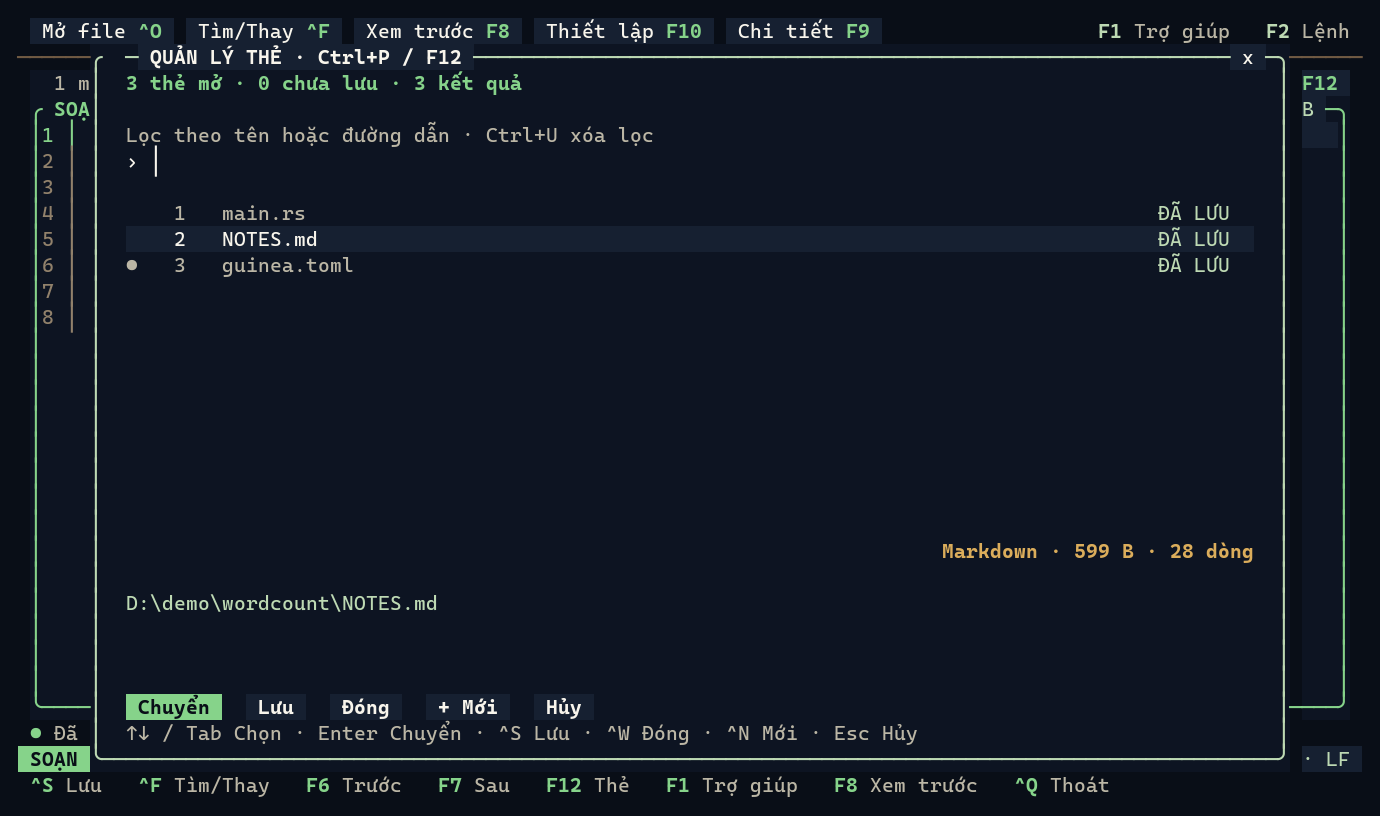
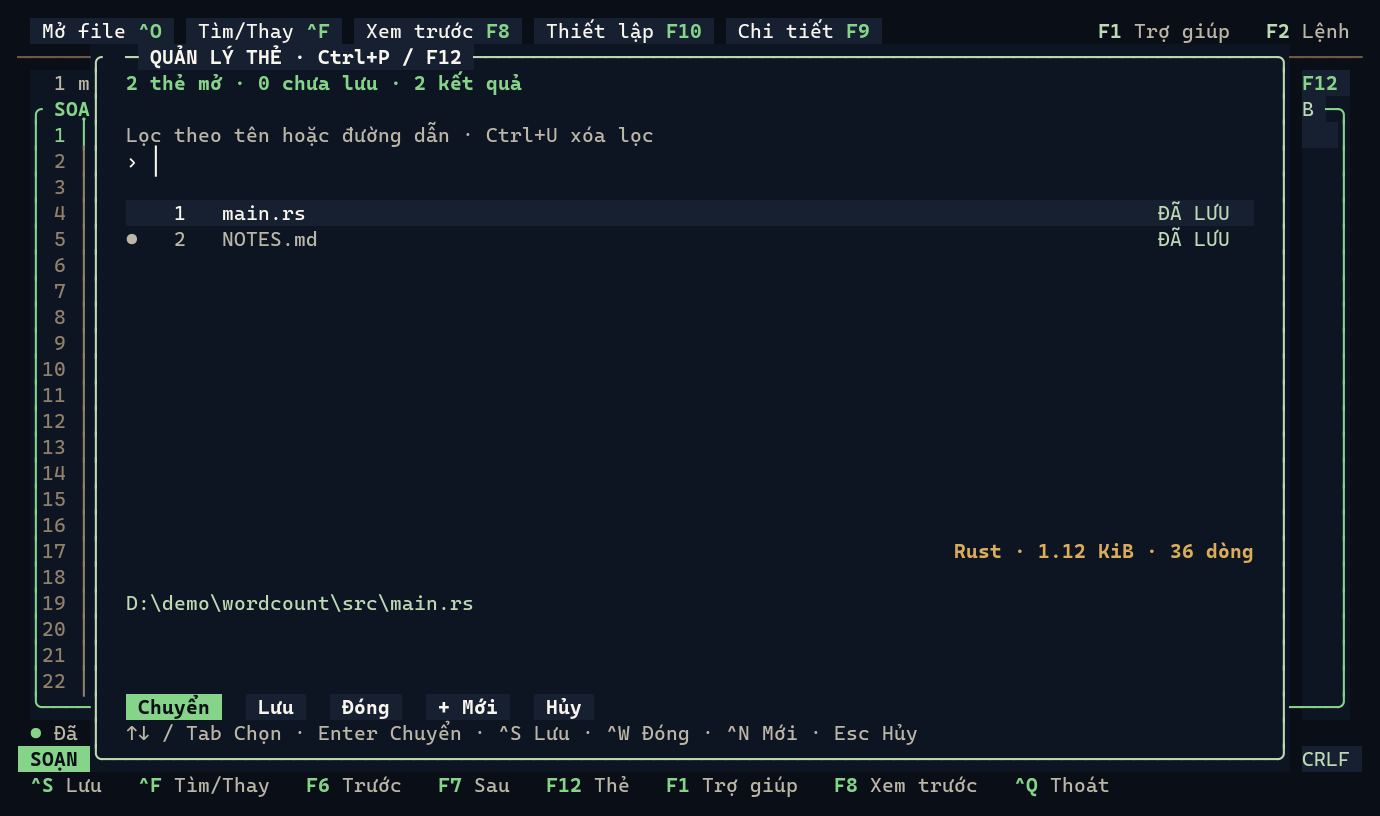
Remove the mouse-only close mark from dialog corners
Every dialog drew a clickable " x " in its title bar. Keyboard users
cannot reach it and Esc already closes every dialog, while dialogs that
need it keep their own Cancel / Keep working button. The mark and its
hit region are gone; pty_dialog_mouse.py now checks that the title bar
has no mark and that Esc closes the confirmation. Docs and README
screenshots updated.

diff --git a/scripts/pty_dialog_mouse.py b/scripts/pty_dialog_mouse.py
@@ -28,13 +28,6 @@ def click(ui,label,condition=None,button=0):
     return pointer(x+1,y,button)
 
 
-def close_x(ui,title):
-    ui.wait_until(lambda lines:any(title in line and " x " in line for line in lines))
-    row,line=next((i,line) for i,line in enumerate(ui.screen.display) if title in line)
-    # Tabs share one row: take the close button that follows this title.
-    return pointer(line.index(" x ",line.index(title))+1,row)
-
-
 def main():
     with tempfile.TemporaryDirectory(prefix="guineanote-dialog-mouse-") as directory:
         root=Path(directory)
@@ -68,7 +61,9 @@ def main():
             assert "Tabs 3/3" in "\n".join(ui.screen.display)
             ui.send("\x17")
             ui.wait("UNSAVED CHANGES / CONFIRM")
-            action(ui,"dialog:header-close",close_x(ui,"UNSAVED CHANGES / CONFIRM"),lambda s:"UNSAVED CHANGES / CONFIRM" not in s)
+            # Dialogs have no mouse-only close mark in the title bar; Esc closes them.
+            assert not any("UNSAVED CHANGES / CONFIRM" in line and " x " in line for line in ui.screen.display)
+            action(ui,"dialog:esc-close","\x1b",lambda s:"UNSAVED CHANGES / CONFIRM" not in s)
             ui.send("\x17")
             ui.wait("UNSAVED CHANGES / CONFIRM")
             action(ui,"dialog:discard-close",click(ui,"Discard & close"),"Tabs 2/2")

diff --git a/crates/guinea-tui/src/dialogs.rs b/crates/guinea-tui/src/dialogs.rs
@@ -62,17 +62,9 @@ fn surface(
         ));
     let inner = block.inner(rect);
     frame.render_widget(block, rect);
+    // No mouse-only close mark in the corner: Esc closes every dialog, and
+    // dialogs that need it show their own Cancel / Keep working button.
     hits.modal = rect;
-    if rect.width >= 8 && rect.height >= 3 {
-        let close = Rect::new(rect.right() - 5, rect.y, 3, 1);
-        text(
-            frame,
-            close,
-            Line::from(" x "),
-            fg(theme.text).bg(theme.raised),
-        );
-        hits.modal_actions.push((close, "cancel"));
-    }
     inner
 }
 fn text(frame: &mut Frame<'_>, area: Rect, value: impl Into<Line<'static>>, style: Style) {

diff --git a/docs/UX_IMPROVEMENTS.md b/docs/UX_IMPROVEMENTS.md
@@ -2,8 +2,9 @@
 
 ## Dialog, mouse and search redesign
 
-All dialogs now share raised title bars, clear borders, a shadow and a clickable
-top-right close button. Confirmations identify affected files and explain the
+All dialogs now share raised title bars, clear borders and a shadow. (The
+clickable top-right close mark was removed on 13/11/2026: Esc closes every
+dialog, and dialogs that need it have their own Cancel / Keep working button.) Confirmations identify affected files and explain the
 consequence above two large decision buttons. Keep working is initially selected;
 Tab/Left/Right changes the selection, Enter/Space applies it, and Y/N remain
 available. Input dialogs have a framed field and clickable Submit/Cancel.

diff --git a/docs/SEARCH_REPLACE.md b/docs/SEARCH_REPLACE.md
@@ -17,7 +17,7 @@ Giao diện hỗ trợ tiếng Việt và tiếng Anh, theo F10 Settings.
    terminal truyền được. Có thể Tab tới nút Replace/Replace all rồi Enter.
    Một lần thay tạo một
    bước Undo; Ctrl+Z trong editor hoàn tác. Ctrl+S lưu riêng sau khi kiểm tra.
-5. Esc hoặc `x` đóng panel. Công việc chưa được áp dụng sẽ bị hủy; thay đổi đã
+5. Esc đóng panel. Công việc chưa được áp dụng sẽ bị hủy; thay đổi đã
    áp dụng vẫn có thể Undo. Panel không tự ghi dữ liệu xuống đĩa.
 
 Khi mở, từ khóa lấy từ vùng văn bản một dòng đang chọn (tối đa 256 Unicode

diff --git a/docs/EDITOR_BEHAVIOR.md b/docs/EDITOR_BEHAVIOR.md
@@ -126,7 +126,7 @@ Enter/Shift+Enter moves next/previous; Tab cycles fields/results, Enter in resul
 returns to the editor. Ctrl+R replaces one, Alt+A replaces all. Replacement
 is prepared off-thread and applied only to the original document revision with
 current write permission. Each operation is one Undo step; saving is separate.
-Esc or the close button discards pending work. See SEARCH_REPLACE.md for limits.
+Esc discards pending work. See SEARCH_REPLACE.md for limits.
 
 Open/save and full-document find/replace are background jobs. Opening and legacy
 find-next temporarily block edits while allowing status feedback and resize;

diff --git a/CHANGELOG.md b/CHANGELOG.md
@@ -6,6 +6,11 @@ released.
 
 ## [Unreleased]
 
+### Changed
+- Dialogs no longer draw a mouse-only close mark in the top-right corner;
+  Esc closes every dialog, and dialogs that need it keep their own Cancel /
+  Keep working button.
+
 ### Fixed
 - Windows: the editor border, file details, the large-file prompt and the
   Opening/Saving status showed paths with the internal `\\?\` prefix; paths
